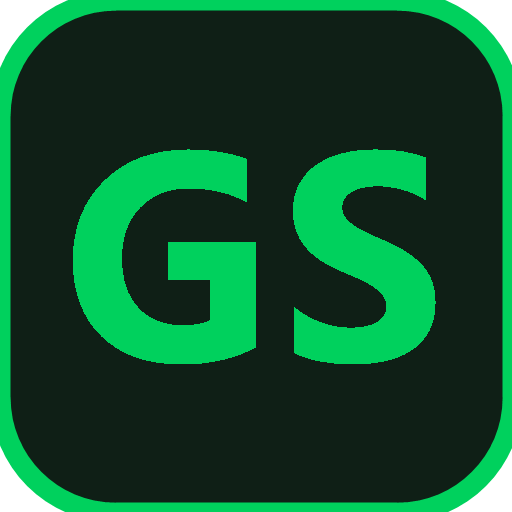
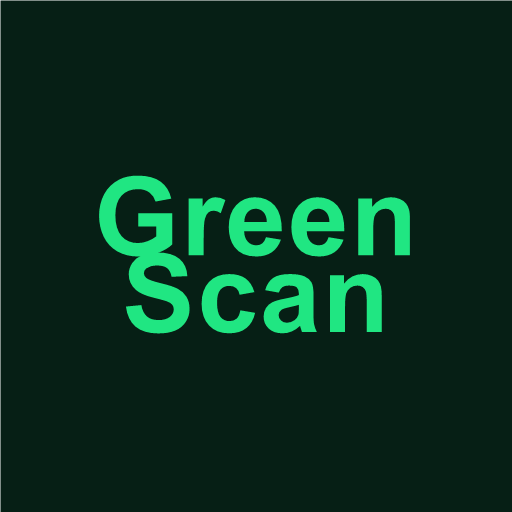
Update branding and free tier guardrails

diff --git a/cloudflare-worker.js b/cloudflare-worker.js
@@ -9,7 +9,7 @@ const ALLOWED_ORIGINS = new Set([
 ]);
 const MAX_REQUEST_BYTES = 7 * 1024 * 1024;
 const MAX_IMAGE_URL_LENGTH = 3_200_000;
-const ACCOUNT_SYNC_LIMIT = 120;
+const ACCOUNT_SYNC_LIMIT = 40;
 const ACCOUNT_SESSION_TTL_SECONDS = 60 * 60 * 24 * 90;
 const ACCOUNT_SESSION_RENEW_SECONDS = 60 * 60 * 24 * 14;
 const DEFAULT_LIMITS = {
@@ -19,6 +19,13 @@ const DEFAULT_LIMITS = {
   categoryVerifications: 8,
   imageUploads: 8,
 };
+const FREE_TIER_BUDGETS = {
+  publicWrites: 80,
+  accountSyncs: 120,
+  searches: 120,
+  aiUsageWrites: 90,
+};
+const FREE_TIER_LIMIT_MESSAGE = "GreenScan is protecting today's free Cloudflare usage. Try again tomorrow.";
 
 export default {
   async fetch(request, env) {
@@ -606,6 +613,8 @@ export default {
           headers,
         );
       }
+      const cloudBudget = await enforceFreeTierBudget(env, "searches", FREE_TIER_BUDGETS.searches);
+      if (!cloudBudget.ok) return json({ error: cloudBudget.error }, 429, headers);
       if (!usage.unlimited) {
         await setDailyUsage(env, usage.key, usage.count + 1);
       }
@@ -974,6 +983,10 @@ export default {
           headers,
         );
       }
+      if (!usingUserAi) {
+        const cloudBudget = await enforceFreeTierBudget(env, "ai-usage-writes", FREE_TIER_BUDGETS.aiUsageWrites);
+        if (!cloudBudget.ok) return json({ error: cloudBudget.error }, 429, headers);
+      }
 
       const helper = {
         frontCompressed: false,
@@ -1018,7 +1031,7 @@ export default {
         {
           role: "system",
           content:
-            "You analyze food and beauty products from images. Return only JSON. Use the front image for brand/product title. Use the back image or typed text for ingredient data. Critical extraction rule: extracted_ingredients_text must contain only ingredient sections. For Drug Facts or OTC cosmetic labels, include Active ingredient(s) and Inactive ingredients, preserving those section labels when visible. Do not include Purpose, Uses, Warnings, Directions, Questions, distributor/address, website/social text, marketing claims, barcode numbers, certifications, recycling text, or other non-ingredient label copy in extracted_ingredients_text. For normal cosmetic labels, use only text after Ingredients/Inactive ingredients and stop before warning, directions, questions, address, website, or marketing sections. For food/drink, extract ingredient text plus nutrition_facts from the Nutrition Facts panel if visible, but keep Nutrition Facts out of extracted_ingredients_text. Prefer per-100g nutrition values when label math is clear; otherwise use the label values and serving size. If nutrition cannot be read, set fields to null. If the user provided Product type food or beauty, keep product_category as that type. Also infer item_category as a specific product type such as Deodorant, Mouthwash, Toothpaste, Shampoo, Conditioner, Body Wash, Lotion, Sunscreen, Crackers, Chips, Cereal, Candy, Sauce, Drink, or Snack. Classify conditioners, shampoos, hair masks, hair oils, lotions, creams, soaps, skincare, fragrance, and cosmetics as beauty. Cosmetic/INCI signals such as dimethicone, amodimethicone, behentrimonium chloride, cetrimonium chloride, polyquaternium, parfum/fragrance, phenoxyethanol, methylisothiazolinone, cetyl alcohol, stearyl alcohol, panthenol, and surfactants indicate beauty. Score from 0-100 using GreenScan scoring: start at 100, subtract about 18 for high risk ingredients, 8 for moderate risk, 3 for unknown risk. For food, apply extra penalties for added sugar, sugar syrups, flagged additives, added fats or oils, artificial colors, high fructose corn syrup, BHA/BHT/TBHQ, sodium nitrite/nitrate, brominated vegetable oil, Red No. 3/erythrosine, titanium dioxide/E171, potassium bromate or bromate flour improvers, propylparaben, benzoates, sulfites, azodicarbonamide, aluminum-containing additives, polysorbates, carrageenan, carboxymethylcellulose/cellulose gum, partially hydrogenated oils, artificial sweeteners, high sugar, high fat, high saturated fat, high sodium, or poor Nutri-Score-like quality. Use nutrition_facts to lower food scores for high sugar, fat, saturated fat, sodium, calories, or low fiber/protein where relevant. Do not rate sugary spreads, candy, sweet drinks, or heavily processed snack foods as excellent just because they lack artificial colors. Add positive_notes for food only when the ingredient list and nutrition facts support them, such as no added sugar detected, no flagged additives detected, no added fats/oils detected, low sugar, low sodium, or meaningful protein/fiber. For beauty, penalize fragrance/parfum and EU fragrance allergens, methylisothiazolinone or methylchloroisothiazolinone plus benzisothiazolinone/octylisothiazolinone, formaldehyde releasers such as DMDM hydantoin/quaternium-15/imidazolidinyl urea/diazolidinyl urea/bronopol/sodium hydroxymethylglycinate/methenamine/benzylhemiformal/polyoxymethylene urea, mercury compounds, lead acetate, hydroquinone/deoxyarbutin, boric acid/borates/perborates, phthalates such as dibutyl phthalate/DEHP/diethyl phthalate, lilial/butylphenyl methylpropional, triclosan/triclocarban, zinc pyrithione, toluene, methyl methacrylate, persulfate hair bleaches, coal tar dyes, PPD/resorcinol hair dyes, restricted parabens, oxybenzone/homosalate/octocrylene/4-methylbenzylidene camphor, DEA-related surfactants, talc, PFAS signals such as PTFE or perfluoro ingredients, synthetic microplastic/polymer signals such as polyethylene/polypropylene/PMMA/nylon-12/acrylates copolymer, D4/D5/D6 cyclic silicones, drying alcohols, and sulfates. When an ingredient is banned, limited, restricted, no longer authorized, or specifically warned about by US/FDA or EU sources, include that regulatory note in the ingredient reason. Add small bonuses for no high-risk ingredients, shorter lists, whole-food signals, or beauty formulas without fragrance/sensitizers. Score color is green for 75-100, yellow for 50-74, red for 0-49.",
+            "You analyze food and beauty products from images. Return only JSON. Use the front image for brand/product title. Use the back image or typed text for ingredient data. Critical extraction rule: extracted_ingredients_text must contain ingredient sections only, copied from visible label ingredient headings and ingredient text. For Drug Facts or OTC cosmetic labels, include only Active ingredient(s) and Inactive ingredients, preserving those section labels when visible. Exclude Purpose, Uses, Warnings, Directions, Other information, Questions, distributor/address, phone, website/social text, marketing claims, barcode/UPC numbers, certifications, recycling/storage/package text, and all other non-ingredient label copy from extracted_ingredients_text. For normal cosmetic/beauty/hair labels, use only text after Ingredients/Inactive ingredients and stop before warnings, directions, use instructions, address/contact, website/social, claims, recycling, storage, or package sections. For food/drink, extracted_ingredients_text must contain only the Ingredients section; Nutrition Facts belongs only in nutrition_facts. Exclude standalone Contains/allergen statements unless embedded in the ingredient sentence, but preserve real ingredient phrases such as contains less than 2% of and may contain 2% or less of. Marketing claims such as vegan, cruelty-free, paraben-free, aluminum-free, dermatologist tested, and clinically proven are not ingredients. Prefer per-100g nutrition values when label math is clear; otherwise use the label values and serving size. If nutrition cannot be read, set fields to null. If the user provided Product type food or beauty, keep product_category as that type. Also infer item_category as a specific product type such as Deodorant, Mouthwash, Toothpaste, Shampoo, Conditioner, Body Wash, Lotion, Sunscreen, Crackers, Chips, Cereal, Candy, Sauce, Drink, or Snack. Classify conditioners, shampoos, hair masks, hair oils, lotions, creams, soaps, skincare, fragrance, and cosmetics as beauty. Cosmetic/INCI signals such as dimethicone, amodimethicone, behentrimonium chloride, cetrimonium chloride, polyquaternium, parfum/fragrance, phenoxyethanol, methylisothiazolinone, cetyl alcohol, stearyl alcohol, panthenol, and surfactants indicate beauty. Score from 0-100 using GreenScan scoring: start at 100, subtract about 18 for high risk ingredients, 8 for moderate risk, 3 for unknown risk. For food, apply extra penalties for added sugar, sugar syrups, flagged additives, added fats or oils, artificial colors, high fructose corn syrup, BHA/BHT/TBHQ, sodium nitrite/nitrate, brominated vegetable oil, Red No. 3/erythrosine, titanium dioxide/E171, potassium bromate or bromate flour improvers, propylparaben, benzoates, sulfites, azodicarbonamide, aluminum-containing additives, polysorbates, carrageenan, carboxymethylcellulose/cellulose gum, partially hydrogenated oils, artificial sweeteners, high sugar, high fat, high saturated fat, high sodium, or poor Nutri-Score-like quality. Use nutrition_facts to lower food scores for high sugar, fat, saturated fat, sodium, calories, or low fiber/protein where relevant. Do not rate sugary spreads, candy, sweet drinks, or heavily processed snack foods as excellent just because they lack artificial colors. Add positive_notes for food only when the ingredient list and nutrition facts support them, such as no added sugar detected, no flagged additives detected, no added fats/oils detected, low sugar, low sodium, or meaningful protein/fiber. For beauty, penalize fragrance/parfum and EU fragrance allergens, methylisothiazolinone or methylchloroisothiazolinone plus benzisothiazolinone/octylisothiazolinone, formaldehyde releasers such as DMDM hydantoin/quaternium-15/imidazolidinyl urea/diazolidinyl urea/bronopol/sodium hydroxymethylglycinate/methenamine/benzylhemiformal/polyoxymethylene urea, mercury compounds, lead acetate, hydroquinone/deoxyarbutin, boric acid/borates/perborates, phthalates such as dibutyl phthalate/DEHP/diethyl phthalate, lilial/butylphenyl methylpropional, triclosan/triclocarban, zinc pyrithione, toluene, methyl methacrylate, persulfate hair bleaches, coal tar dyes, PPD/resorcinol hair dyes, restricted parabens, oxybenzone/homosalate/octocrylene/4-methylbenzylidene camphor, DEA-related surfactants, talc, PFAS signals such as PTFE or perfluoro ingredients, synthetic microplastic/polymer signals such as polyethylene/polypropylene/PMMA/nylon-12/acrylates copolymer, D4/D5/D6 cyclic silicones, drying alcohols, and sulfates. When an ingredient is banned, limited, restricted, no longer authorized, or specifically warned about by US/FDA or EU sources, include that regulatory note in the ingredient reason. Add small bonuses for no high-risk ingredients, shorter lists, whole-food signals, or beauty formulas without fragrance/sensitizers. Score color is green for 75-100, yellow for 50-74, red for 0-49.",
         },
         {
           role: "user",
@@ -1028,8 +1041,8 @@ export default {
               text: [
                 `Product type: ${productType || "unknown"}.`,
                 `Barcode: ${barcode || "unknown"}.`,
-                productType === "beauty" ? "If this is a Drug Facts deodorant/antiperspirant or OTC beauty label, extract Active ingredient(s) and Inactive ingredients only; ignore Uses, Purpose, Warnings, Directions, Questions, addresses, and marketing text." : "",
-                "Show only ingredient names in extracted_ingredients_text and the ingredients array. Exclude Nutrition Facts, Contains/May contain allergen lines, warnings, directions, addresses, websites, marketing claims, barcodes, and package-size text.",
+                productType === "beauty" ? "If this is a Drug Facts deodorant/antiperspirant or OTC beauty label, extract Active ingredient(s) and Inactive ingredients only; ignore Purpose, Uses, Warnings, Directions, Other information, Questions, distributor/address, phone, website/social, barcode, recycling/storage/package, and marketing text." : "",
+                "Show only real ingredient names/phrases in extracted_ingredients_text and the ingredients array. Exclude Nutrition Facts, standalone Contains/May contain allergen lines, warnings, directions, uses, purpose, other information, addresses, phone numbers, websites/social handles, marketing claims, certifications, barcodes/UPC codes, recycling/storage copy, and package-size text. Preserve ingredient phrases like contains less than 2% of and may contain 2% or less of.",
                 productType === "food"
                   ? `User says Nutrition Facts are ${hasNutritionFacts === "yes" ? "included in the submitted label/text" : hasNutritionFacts === "no" ? "not included in the submitted label/text" : "not answered"}. ${hasNutritionFacts === "no" ? "Do not invent nutrition_facts; set nutrition_facts fields to null unless clearly present in typed text or image." : "Extract nutrition_facts only when visible/readable; use null for unreadable fields."}`
                   : "Nutrition Facts are not applicable for this product type.",
@@ -1258,25 +1271,29 @@ function normalizeIngredientTextTypos(value) {
     .replace(/\bispartame\b/gi, "aspartame");
 }
 
+const NON_INGREDIENT_SECTION_STOP = "\\b(?:(?:drug|nutrition|supplement) facts|purpose|uses?|warnings?|directions?|questions?|other information|serving size|calories|%\\s*daily value|(?:contains|may contain)\\s*:?\\s*(?:milk|eggs?|fish|shellfish|tree nuts?|peanuts?|wheat|soybeans?|sesame)\\b|allergen(?:s)?|produced in|made in (?:a )?facility|distributed by|dist\\. by|manufactured by|mfd\\. by|marketed by|packaged by|copyright|trademark|phone|call|contact us|questions or comments|website|www\\.|https?://|\\.com\\b|catch us|follow us|connect with|facebook|instagram|twitter|x\\.com|tiktok|@|scan|barcode|upc|qr code|recycling|recyclable|recycle|dispose|storage|store in|keep in|best before|best by|sell by|use by|expiration|exp\\.?|lot|batch|net wt|net weight|contents|package|packaging|for external use|keep out of reach|when using|do not use|stop use|ask a doctor|if swallowed|get medical help|poison control|active ingredient[s]?\\s*$|inactive ingredient[s]?\\s*$|vegan|cruelty[- ]?free|paraben[- ]?free|aluminum[- ]?free|dermatologist tested|clinically proven|certified|certification|not tested on animals|no artificial|gluten[- ]?free|non[- ]?gmo|plant[- ]?based)\\b";
+const DRUG_FACTS_ACTIVE_STOP = "\\b(?:purpose|uses?|warnings?|directions?|inactive ingredients?|questions?|other information|when using|do not use|for external use|keep out of reach|stop use|ask a doctor|if swallowed|get medical help|poison control)\\b";
+const DRUG_FACTS_INACTIVE_STOP = "\\b(?:purpose|uses?|warnings?|directions?|questions?|other information|distributed by|dist\\. by|manufactured by|mfd\\. by|marketed by|packaged by|phone|call|contact us|questions or comments|website|www\\.|https?://|\\.com\\b|catch us|follow us|connect with|facebook|instagram|twitter|x\\.com|tiktok|@|for external use|keep out of reach|when using|do not use|stop use|ask a doctor|if swallowed|get medical help|poison control|barcode|upc|qr code|recycling|recyclable|storage|store in|best before|best by|lot|batch|net wt|net weight|vegan|cruelty[- ]?free|paraben[- ]?free|aluminum[- ]?free|dermatologist tested|clinically proven|certified|certification|not tested on animals)\\b";
+
+// Smoke samples: Drug Facts keeps active/inactive only; food preserves "contains less than 2% of" while dropping Nutrition Facts/contact/claims.
 function extractIngredientSectionsOnly(value, options = {}) {
   const text = String(value || "").replace(/\r/g, "\n").replace(/[ \t]+/g, " ").trim();
   if (!text) return "";
   const compact = text.replace(/\n+/g, " ").replace(/\s{2,}/g, " ").trim();
   const sections = [];
-  const stopPattern = "\\b(?:purpose|uses?|warnings?|directions?|questions?|nutrition facts|supplement facts|serving size|calories|(?:contains|may contain)\\s*:\\s*\\w+|allergen(?:s)?|produced in|made in (?:a )?facility|distributed by|dist\\. by|manufactured by|mfd\\. by|website|www\\.|catch us|follow us|connect with|certified|@|scan|barcode|drug facts|other information|storage|best before|best by|lot|net wt|net weight|for external use|keep out of reach|when using|do not use|inactive ingredient[s]?\\s*$)\\b";
-  const activeMatch = compact.match(/\bactive ingredients?\b\s*:?\s*([\s\S]*?)(?=\b(?:purpose|uses?|warnings?|directions?|inactive ingredients?|questions?|other information|when using|do not use|for external use|keep out of reach)\b|$)/i);
+  const activeMatch = compact.match(new RegExp("\\bactive ingredients?\\b\\s*:?\\s*([\\s\\S]*?)(?=" + DRUG_FACTS_ACTIVE_STOP + "|$)", "i"));
   if (activeMatch?.[1]) {
     const cleaned = cleanExtractedIngredientSection(activeMatch[1]);
-    if (cleaned) sections.push(`Active ingredient: ${cleaned}`);
+    if (cleaned) sections.push("Active ingredient: " + cleaned);
   }
-  const inactiveMatch = compact.match(/\binactive ingredients?\b\s*:?\s*([\s\S]*?)(?=\b(?:questions?|directions?|warnings?|distributed by|dist\\. by|manufactured by|mfd\\. by|website|www\\.|catch us|follow us|connect with|certified|@|other information|for external use|keep out of reach|when using|do not use)\b|$)/i);
+  const inactiveMatch = compact.match(new RegExp("\\binactive ingredients?\\b\\s*:?\\s*([\\s\\S]*?)(?=" + DRUG_FACTS_INACTIVE_STOP + "|$)", "i"));
   if (inactiveMatch?.[1]) {
     const cleaned = cleanExtractedIngredientSection(inactiveMatch[1]);
-    if (cleaned) sections.push(`Inactive ingredients: ${cleaned}`);
+    if (cleaned) sections.push("Inactive ingredients: " + cleaned);
   }
   if (sections.length) return sections.join("; ");
 
-  const ingredientMatch = compact.match(new RegExp("\\bingredients?\\b\\s*:?\\s*([\\s\\S]*?)(?=" + stopPattern + "|$)", "i"));
+  const ingredientMatch = compact.match(new RegExp("\\bingredients?\\b\\s*:?\\s*([\\s\\S]*?)(?=" + NON_INGREDIENT_SECTION_STOP + "|$)", "i"));
   if (ingredientMatch?.[1]) {
     const cleaned = cleanExtractedIngredientSection(ingredientMatch[1]);
     if (cleaned) return cleaned;
@@ -1289,12 +1306,9 @@ function extractIngredientSectionsOnly(value, options = {}) {
 
 function cleanExtractedIngredientSection(value) {
   return normalizeIngredientTextTypos(value)
-    .replace(/\b(?:purpose|uses?|warnings?|directions?|questions?|nutrition facts|supplement facts|serving size|calories|other information|when using|do not use)\b[\s\S]*$/i, "")
-    .replace(/\b(?:(?:contains|may contain)\s*:\s*\w+|allergen(?:s)?|produced in|made in (?:a )?facility)\b[\s\S]*$/i, "")
-    .replace(/\b(?:distributed by|dist\. by|manufactured by|mfd\. by|call|website|www\.|catch us|follow us|connect with|@)\b[\s\S]*$/i, "")
+    .replace(new RegExp(NON_INGREDIENT_SECTION_STOP + "[\\s\\S]*$", "i"), "")
     .replace(/\b(?:for external use only|keep out of reach of children|stop use|ask a doctor|if swallowed|get medical help|poison control)\b[\s\S]*$/i, "")
     .replace(/\b(?:apply to|use daily|shake well|suggested use|dosage|reduces underarm wetness|antiperspirant)\b[\s\S]*$/i, "")
-    .replace(/\b(?:certified|certification|recyclable|sustainably|not tested on animals|storage|best before|best by|lot|net wt|net weight)\b[\s\S]*$/i, "")
     .replace(/\b1[-.\s]?\d{3}[-.\s]?\d{3}[-.\s]?\d{4}\b/g, " ")
     .replace(/\b\d{6,14}\b/g, " ")
     .replace(/\s*[,;]\s*/g, ", ")
@@ -1333,17 +1347,18 @@ function normalizeAnalysisIngredientTypos(analysis) {
 function cleanIngredientName(value) {
   return String(value || "")
     .replace(/^\s*(?:active ingredients?|inactive ingredients?|ingredients?)\s*:?\s*/i, "")
-    .replace(/\bpurpose\b[\s\S]*$/i, "")
-    .replace(/^[\s:.,;-]+|[\s:.,;-]+$/g, "")
+    .replace(new RegExp(NON_INGREDIENT_SECTION_STOP + "[\\s\\S]*$", "i"), "")
+    .replace(/^\s*:|[\s:.,;-]+$/g, "")
     .trim();
 }
 
 function isNonIngredientLabelFragment(value) {
   const text = String(value || "").toLowerCase().trim();
   if (!text) return true;
-  if (/^(?:purpose|uses?|warnings?|directions?|questions?|nutrition facts|supplement facts|serving size|calories|(?:contains|may contain)\s*:\s*\w+|allergen(?:s)?|other information|drug facts|distributed by|dist\. by|manufactured by|website|www\.|catch us|follow us|connect with|certified|barcode|scan|storage|best before|best by|lot|net wt|net weight|when using|do not use)\b/.test(text)) return true;
-  if (/\b(?:for external use only|keep out of reach of children|do not use|stop use|ask a doctor|if swallowed|poison control|apply to underarms|shake well|suggested use|dosage|reduces underarm wetness|not tested on animals|recyclable|made in a facility|produced in a facility)\b/.test(text)) return true;
+  if (new RegExp("^(?:" + NON_INGREDIENT_SECTION_STOP.replace(/^\\b\(\?:|\)\\b$/g, "") + ")", "i").test(text)) return true;
+  if (/\b(?:for external use only|keep out of reach of children|do not use|stop use|ask a doctor|if swallowed|poison control|apply to underarms|shake well|suggested use|dosage|reduces underarm wetness|not tested on animals|recyclable|made in a facility|produced in a facility|vegan|cruelty[- ]?free|paraben[- ]?free|aluminum[- ]?free|dermatologist tested|clinically proven)\b/.test(text)) return true;
   if (/\b1[-.\s]?\d{3}[-.\s]?\d{3}[-.\s]?\d{4}\b/.test(text)) return true;
+  if (/^\d{6,14}$/.test(text)) return true;
   return false;
 }
 
@@ -1701,12 +1716,12 @@ async function openAiIngredientOcr(env, imageUrl) {
     [
       {
         role: "system",
-        content: "Extract only product ingredient section text from the label image. Return JSON only. Do not analyze, score, or save anything. If this is a Drug Facts or OTC beauty label, include Active ingredient(s) and Inactive ingredients, preserving those labels. Ignore Purpose, Uses, Warnings, Directions, Questions, other information, distributor/address, website/social text, marketing claims, barcode numbers, and certifications. For normal labels, return only the Ingredients section. If no ingredient section is visible, return an empty ingredient_text string.",
+        content: "Extract only product ingredient section text from the label image. Return JSON only. Do not analyze, score, or save anything. If this is a Drug Facts or OTC beauty label, include Active ingredient(s) and Inactive ingredients only, preserving those labels. Ignore Purpose, Uses, Warnings, Directions, Other information, Questions, distributor/address, phone, website/social text, marketing claims, barcode/UPC numbers, certifications, recycling/storage/package copy, and Nutrition Facts. For food/drink labels, return only the Ingredients section and exclude standalone Contains/allergen statements unless embedded in the ingredient sentence. Preserve ingredient phrases like contains less than 2% of and may contain 2% or less of. If no ingredient section is visible, return an empty ingredient_text string.",
       },
       {
         role: "user",
         content: [
-          { type: "text", text: "Read only the ingredient section(s) from this photo. For Drug Facts, return Active ingredient and Inactive ingredients only." },
+          { type: "text", text: "Read only ingredient section(s) from this photo. For Drug Facts, return Active ingredient and Inactive ingredients only. Keep Nutrition Facts, Purpose, Uses, Warnings, Directions, Other information, Questions, contact text, claims, barcode/UPC, recycling, storage, and package copy out of ingredient_text." },
           { type: "image_url", image_url: { url: imageUrl, detail: "high" } },
         ],
       },
@@ -1749,6 +1764,8 @@ function isHttpImageUrl(value) {
 }
 
 async function enforcePublicWriteLimit(env, request, area, limit) {
+  const cloudBudget = await enforceFreeTierBudget(env, "public-writes", FREE_TIER_BUDGETS.publicWrites);
+  if (!cloudBudget.ok) return cloudBudget;
   const identity = getRateIdentity(request, "", "");
   const key = `write-usage:${todayKey()}:${area}:${identity}`;
   const count = Number(await env.PRODUCT_CACHE.get(key)) || 0;
@@ -1758,12 +1775,22 @@ async function enforcePublicWriteLimit(env, request, area, limit) {
 }
 
 async function enforceIdentityWriteLimit(env, identity, area, limit) {
+  const cloudBudget = await enforceFreeTierBudget(env, "account-syncs", FREE_TIER_BUDGETS.accountSyncs);
+  if (!cloudBudget.ok) return cloudBudget;
   const safeIdentity = String(identity || "").replace(/[^a-z0-9:@._-]/gi, "").slice(0, 180) || "unknown";
   const key = `write-usage:${todayKey()}:${area}:${safeIdentity}`;
   const count = Number(await env.PRODUCT_CACHE.get(key)) || 0;
   if (count >= limit) return { ok: false, error: "Too many sync updates today. Try again tomorrow." };
   await setDailyUsage(env, key, count + 1);
   return { ok: true };
+}
+
+async function enforceFreeTierBudget(env, bucket, limit) {
+  const key = `cloudflare-budget:${todayKey()}:${bucket}`;
+  const count = Number(await env.PRODUCT_CACHE.get(key)) || 0;
+  if (count >= limit) return { ok: false, error: FREE_TIER_LIMIT_MESSAGE };
+  await env.PRODUCT_CACHE.put(key, String(count + 1), { expirationTtl: 60 * 60 * 48 });
+  return { ok: true, used: count + 1, limit };
 }
 
 function getRateIdentity(request, userEmail, userId) {
@@ -2750,11 +2777,11 @@ function sanitizeAppLimits(value = {}, fallback = DEFAULT_LIMITS) {
   const base = { ...DEFAULT_LIMITS, ...(fallback || {}) };
   const settings = value && typeof value === "object" ? value : {};
   return {
-    signedInAi: clampInteger(settings.signedInAi, base.signedInAi, 1, 100),
-    guestAi: clampInteger(settings.guestAi, base.guestAi, 0, 25),
-    searches: clampInteger(settings.searches, base.searches, 1, 200),
-    categoryVerifications: clampInteger(settings.categoryVerifications, base.categoryVerifications, 0, 50),
-    imageUploads: clampInteger(settings.imageUploads, base.imageUploads, 0, 50),
+    signedInAi: clampInteger(settings.signedInAi, base.signedInAi, 1, 25),
+    guestAi: clampInteger(settings.guestAi, base.guestAi, 0, 8),
+    searches: clampInteger(settings.searches, base.searches, 1, 40),
+    categoryVerifications: clampInteger(settings.categoryVerifications, base.categoryVerifications, 0, 12),
+    imageUploads: clampInteger(settings.imageUploads, base.imageUploads, 0, 12),
   };
 }
 

diff --git a/app/app.js b/app/app.js
@@ -2320,22 +2320,24 @@ function splitIngredients(text) {
     .slice(0, 36);
 }
 
-const NON_INGREDIENT_SECTION_STOP = "\\b(?:purpose|uses?|warnings?|directions?|questions?|other information|when using|do not use|distributed by|dist\\. by|manufactured by|mfd\\. by|website|www\\.|catch us|follow us|connect with|certified|recyclable|not tested on animals|for external use|keep out of reach|stop use|ask a doctor|if swallowed|poison control|@)\\b";
+const NON_INGREDIENT_SECTION_STOP = "\\b(?:(?:drug|nutrition|supplement) facts|purpose|uses?|warnings?|directions?|questions?|other information|serving size|calories|%\\s*daily value|(?:contains|may contain)\\s*:?\\s*(?:milk|eggs?|fish|shellfish|tree nuts?|peanuts?|wheat|soybeans?|sesame)\\b|allergen(?:s)?|produced in|made in (?:a )?facility|distributed by|dist\\. by|manufactured by|mfd\\. by|marketed by|packaged by|copyright|trademark|phone|call|contact us|questions or comments|website|www\\.|https?://|\\.com\\b|catch us|follow us|connect with|facebook|instagram|twitter|x\\.com|tiktok|@|scan|barcode|upc|qr code|recycling|recyclable|recycle|dispose|storage|store in|keep in|best before|best by|sell by|use by|expiration|exp\\.?|lot|batch|net wt|net weight|contents|package|packaging|for external use|keep out of reach|when using|do not use|stop use|ask a doctor|if swallowed|get medical help|poison control|active ingredient[s]?\\s*$|inactive ingredient[s]?\\s*$|vegan|cruelty[- ]?free|paraben[- ]?free|aluminum[- ]?free|dermatologist tested|clinically proven|certified|certification|not tested on animals|no artificial|gluten[- ]?free|non[- ]?gmo|plant[- ]?based)\\b";
+const DRUG_FACTS_ACTIVE_STOP = "\\b(?:purpose|uses?|warnings?|directions?|inactive ingredients?|questions?|other information|when using|do not use|for external use|keep out of reach|stop use|ask a doctor|if swallowed|get medical help|poison control)\\b";
+const DRUG_FACTS_INACTIVE_STOP = "\\b(?:purpose|uses?|warnings?|directions?|questions?|other information|distributed by|dist\\. by|manufactured by|mfd\\. by|marketed by|packaged by|phone|call|contact us|questions or comments|website|www\\.|https?://|\\.com\\b|catch us|follow us|connect with|facebook|instagram|twitter|x\\.com|tiktok|@|for external use|keep out of reach|when using|do not use|stop use|ask a doctor|if swallowed|get medical help|poison control|barcode|upc|qr code|recycling|recyclable|storage|store in|best before|best by|lot|batch|net wt|net weight|vegan|cruelty[- ]?free|paraben[- ]?free|aluminum[- ]?free|dermatologist tested|clinically proven|certified|certification|not tested on animals)\\b";
 
 function cleanIngredientSection(value) {
   let text = String(value || "").replace(/\r/g, "\n").replace(/[ \t]+/g, " ").trim();
   if (!text) return "";
   const compact = text.replace(/\n+/g, " ").replace(/\s{2,}/g, " ").trim();
   const sections = [];
-  const activeMatch = compact.match(/\bactive ingredients?\b\s*:?\s*([\s\S]*?)(?=\b(?:purpose|uses?|warnings?|directions?|inactive ingredients?|questions?|other information|when using|do not use|for external use|keep out of reach)\b|$)/i);
+  const activeMatch = compact.match(new RegExp("\\bactive ingredients?\\b\\s*:?\\s*([\\s\\S]*?)(?=" + DRUG_FACTS_ACTIVE_STOP + "|$)", "i"));
   if (activeMatch?.[1]) {
     const cleaned = stripNonIngredientTail(activeMatch[1]);
-    if (cleaned) sections.push(`Active ingredient: ${cleaned}`);
+    if (cleaned) sections.push("Active ingredient: " + cleaned);
   }
-  const inactiveMatch = compact.match(/\binactive ingredients?\b\s*:?\s*([\s\S]*?)(?=\b(?:questions?|directions?|warnings?|distributed by|dist\\. by|manufactured by|mfd\\. by|website|www\\.|catch us|follow us|connect with|certified|@|other information|for external use|keep out of reach|when using|do not use)\b|$)/i);
+  const inactiveMatch = compact.match(new RegExp("\\binactive ingredients?\\b\\s*:?\\s*([\\s\\S]*?)(?=" + DRUG_FACTS_INACTIVE_STOP + "|$)", "i"));
   if (inactiveMatch?.[1]) {
     const cleaned = stripNonIngredientTail(inactiveMatch[1]);
-    if (cleaned) sections.push(`Inactive ingredients: ${cleaned}`);
+    if (cleaned) sections.push("Inactive ingredients: " + cleaned);
   }
   if (sections.length) return sections.join("; ");
   const ingredientMatch = compact.match(new RegExp("\\bingredients?\\b\\s*:?\\s*([\\s\\S]*?)(?=" + NON_INGREDIENT_SECTION_STOP + "|$)", "i"));
@@ -2349,11 +2351,9 @@ function cleanIngredientSection(value) {
 
 function stripNonIngredientTail(value) {
   return String(value || "")
-    .replace(/\b(?:purpose|uses?|warnings?|directions?|questions?|other information|when using|do not use)\b[\s\S]*$/i, "")
-    .replace(/\b(?:distributed by|dist\. by|manufactured by|mfd\. by|call|www\.|catch us|follow us|connect with|@)\b[\s\S]*$/i, "")
+    .replace(new RegExp(NON_INGREDIENT_SECTION_STOP + "[\\s\\S]*$", "i"), "")
     .replace(/\b(?:for external use only|keep out of reach of children|stop use|ask a doctor|if swallowed|get medical help|poison control)\b[\s\S]*$/i, "")
-    .replace(/\b(?:apply to|use daily|reduces underarm wetness|antiperspirant)\b[\s\S]*$/i, "")
-    .replace(/\b(?:certified|certification|recyclable|sustainably|not tested on animals)\b[\s\S]*$/i, "")
+    .replace(/\b(?:apply to|use daily|shake well|suggested use|dosage|reduces underarm wetness|antiperspirant)\b[\s\S]*$/i, "")
     .replace(/\b1[-.\s]?\d{3}[-.\s]?\d{3}[-.\s]?\d{4}\b/g, " ")
     .replace(/\b\d{6,14}\b/g, " ")
     .replace(/\s*[,;]\s*/g, ", ")

diff --git a/app/index.html b/app/index.html
@@ -10,8 +10,12 @@
     <meta property="og:description" content="GreenScan helps shoppers review food, drink, beauty, and hair product ingredients with clear safety scores, positives, and potential concern notes." />
     <meta property="og:url" content="https://greenscan.us/" />
     <meta property="og:type" content="website" />
+    <meta property="og:image" content="https://greenscan.us/greenscan-index-logo.png" />
+    <meta property="og:image:alt" content="GreenScan broccoli scanner logo" />
     <meta name="twitter:card" content="summary" />
+    <meta name="twitter:image" content="https://greenscan.us/greenscan-index-logo.png" />
     <link rel="icon" type="image/svg+xml" href="./greenscan-logo.svg" />
+    <link rel="icon" type="image/png" sizes="512x512" href="./greenscan-search-icon.png" />
     <link rel="apple-touch-icon" sizes="180x180" href="./apple-touch-icon.png" />
     <link rel="manifest" href="./manifest.webmanifest" />
     <meta name="apple-mobile-web-app-capable" content="yes" />
@@ -27,6 +31,8 @@
         "applicationCategory": "HealthApplication",
         "operatingSystem": "Web",
         "description": "GreenScan is a free barcode and ingredient safety scanner for food, drinks, beauty, and hair products. Review ingredients, nutrition, positives, potential concerns, and simple safety scores.",
+        "image": "https://greenscan.us/greenscan-index-logo.png",
+        "logo": "https://greenscan.us/greenscan-index-logo.png",
         "offers": {
           "@type": "Offer",
           "price": "0",

diff --git a/app/styles.css b/app/styles.css
@@ -6415,7 +6415,7 @@ body.theme-dark .bottom-nav {
     grid-template-areas:
       "topbar topbar"
       "scan result"
-      ". description"
+      "description description"
       "fallback fallback";
     gap: 16px 18px;
   }
@@ -6812,7 +6812,7 @@ body.theme-dark .bottom-nav {
     grid-template-areas:
       "topbar topbar"
       "scan result"
-      ". description"
+      "description description"
       "fallback fallback";
     gap: 18px;
   }
@@ -7125,6 +7125,12 @@ body.theme-dark .bottom-nav {
   }
 
   body.scan-view .scanner-empty {
+    position: absolute;
+    inset: 27% 13% 25%;
+    width: auto;
+    min-width: 0;
+    min-height: 0;
+    margin: 0;
     border: 0;
     background: transparent;
   }
@@ -7576,10 +7582,22 @@ body.theme-dark .bottom-nav {
   }
 
   body.scan-view .result-panel .ingredient-row {
+    grid-template-columns: 34px minmax(0, 1fr) auto;
     border-color: rgba(139, 224, 194, 0.15);
     color: #f3fff9;
     background: rgba(255, 255, 255, 0.035);
     box-shadow: none;
+  }
+
+  body.scan-view .result-panel .ingredient-row .ingredient-chevron {
+    display: none;
+  }
+
+  body.scan-view .result-panel .ingredient-row .risk {
+    max-width: 78px;
+    min-width: 64px;
+    padding: 5px 7px;
+    font-size: 0.72rem;
   }
 
   body.scan-view .result-panel .ingredient-row + .ingredient-row {
